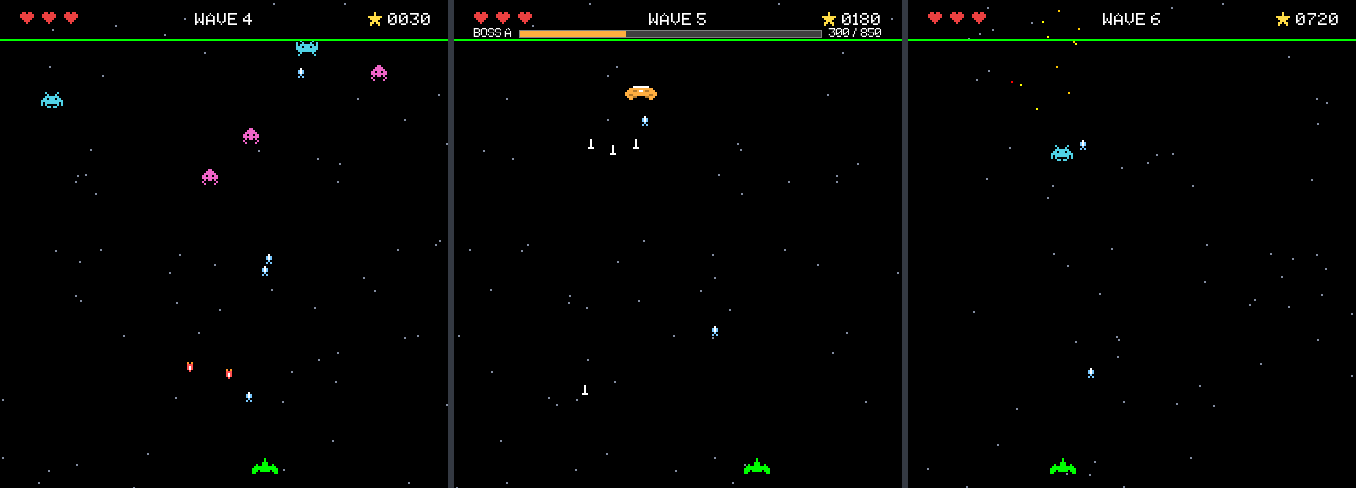
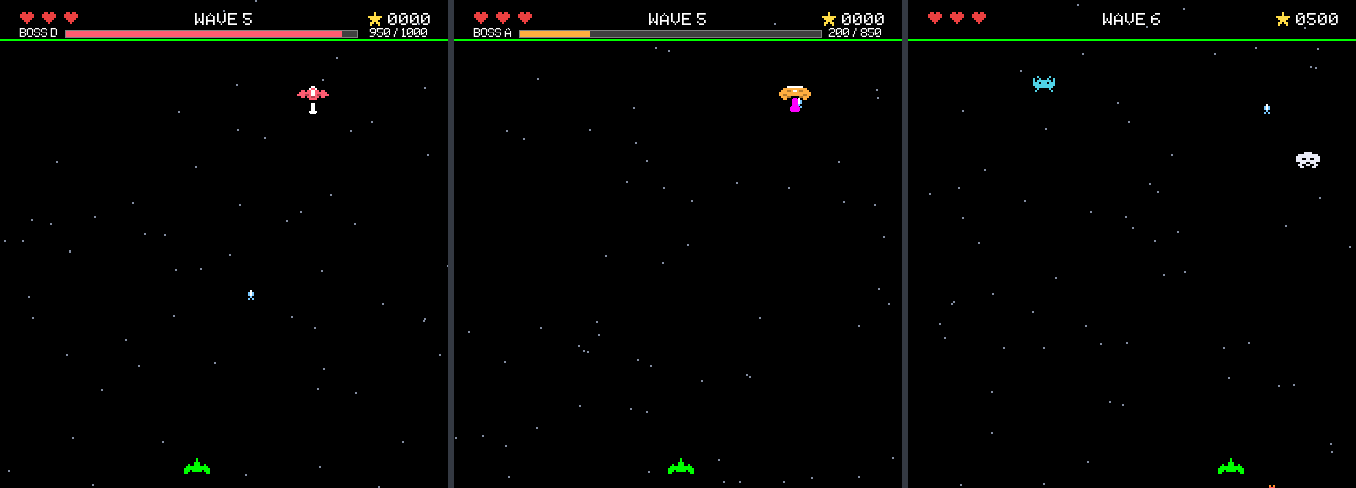
Draw a random boss for each infinite boss wave (KAN-4)

diff --git a/src/screen/InfiniteGameScreen.java b/src/screen/InfiniteGameScreen.java
@@ -6,6 +6,7 @@ import java.util.Collections;
 import java.util.HashSet;
 import java.util.Iterator;
 import java.util.List;
+import java.util.Random;
 import java.util.Set;
 import vfx.ParticleSystem;
 
@@ -57,7 +58,7 @@ public class InfiniteGameScreen extends Screen {
 	private static final int ENEMIES_PER_WAVE = 8;
 	private static final int BOSS_WAVE_INTERVAL = 5;
 	private static final int MAX_BOSS_MINIONS = 2;
-	private static final Boss.BossType[] BOSS_ROTATION = {
+	private static final Boss.BossType[] ENDLESS_BOSSES = {
 			Boss.BossType.BOSS_A, Boss.BossType.BOSS_B,
 			Boss.BossType.BOSS_C, Boss.BossType.BOSS_D };
 	private static final int MINIMUM_SPAWN_INTERVAL = 300;
@@ -80,6 +81,7 @@ public class InfiniteGameScreen extends Screen {
 	private Set<Bullet> enemyBullets;
 	private int wave = 1;
 	private int spawnedThisWave;
+	private final Random bossRandom = new Random();
 	private BossManager bossManager;
 	private final List<BossBullet> bossBullets = new ArrayList<>();
 	private Cooldown spawnCooldown;
@@ -399,11 +401,11 @@ public class InfiniteGameScreen extends Screen {
 			// A projectile from the previous wave should not enter the boss fight.
 			BulletPool.recycle(this.enemyBullets);
 			this.enemyBullets.clear();
-			int index = (this.wave / BOSS_WAVE_INTERVAL - 1) % BOSS_ROTATION.length;
+			Boss.BossType bossType = ENDLESS_BOSSES[this.bossRandom.nextInt(ENDLESS_BOSSES.length)];
 			this.bossManager = new BossManager();
 			this.bossManager.connectGameplayEvents(this.recordsEvents, getActiveRunId());
 			this.bossManager.getEventManager().addListener(GameScreen::playBossSound);
-			this.bossManager.spawn(new BossSpawnRequest(BOSS_ROTATION[index],
+			this.bossManager.spawn(new BossSpawnRequest(bossType,
 					(this.width - Boss.WIDTH) / 2, GameScreen.BOSS_SPAWN_Y, 1, this.wave));
 		} else {
 			this.spawnCooldown.reset();

diff --git a/test/screen/InfiniteBossWaveTest.java b/test/screen/InfiniteBossWaveTest.java
@@ -12,6 +12,7 @@ import entity.Ship;
 import entity.ZigzagEnemyShip;
 import java.lang.reflect.Field;
 import java.util.List;
+import java.util.Random;
 import java.util.Set;
 import org.junit.jupiter.api.Test;
 import records.RunMode;
@@ -21,7 +22,7 @@ import static org.junit.jupiter.api.Assertions.*;
 
 class InfiniteBossWaveTest {
     @Test
-    void wavesRotateBossesAndResumeAfterEachDefeat() throws Exception {
+    void bossWavesDrawIndependentlyAndResumeAfterEachDefeat() throws Exception {
         RunSession session = new RunSession("endless-waves", RunMode.INFINITE);
         InfiniteGameScreen game = new InfiniteGameScreen(new GameState(1, 0, 3, 0, 0),
                 448, 520, 60, session, 2);
@@ -33,8 +34,10 @@ class InfiniteBossWaveTest {
             List<ZigzagEnemyShip> enemies = fieldList(game, "enemies");
             List<BossBullet> hostile = fieldList(game, "bossBullets");
             int expectedScore = 0;
-            Boss.BossType[] expected = {Boss.BossType.BOSS_A, Boss.BossType.BOSS_B,
-                    Boss.BossType.BOSS_C, Boss.BossType.BOSS_D, Boss.BossType.BOSS_A};
+            // This seed covers all four bosses and consecutive encounters with C.
+            ((Random) field(game, "bossRandom").get(game)).setSeed(33L);
+            Boss.BossType[] expected = {Boss.BossType.BOSS_C, Boss.BossType.BOSS_C,
+                    Boss.BossType.BOSS_D, Boss.BossType.BOSS_A, Boss.BossType.BOSS_B};
             for (int wave = 1; wave <= 25; wave++) {
                 assertEquals(wave, game.getGameState().getLevel());
                 assertEquals(wave, session.getStats().getWavesReached());
